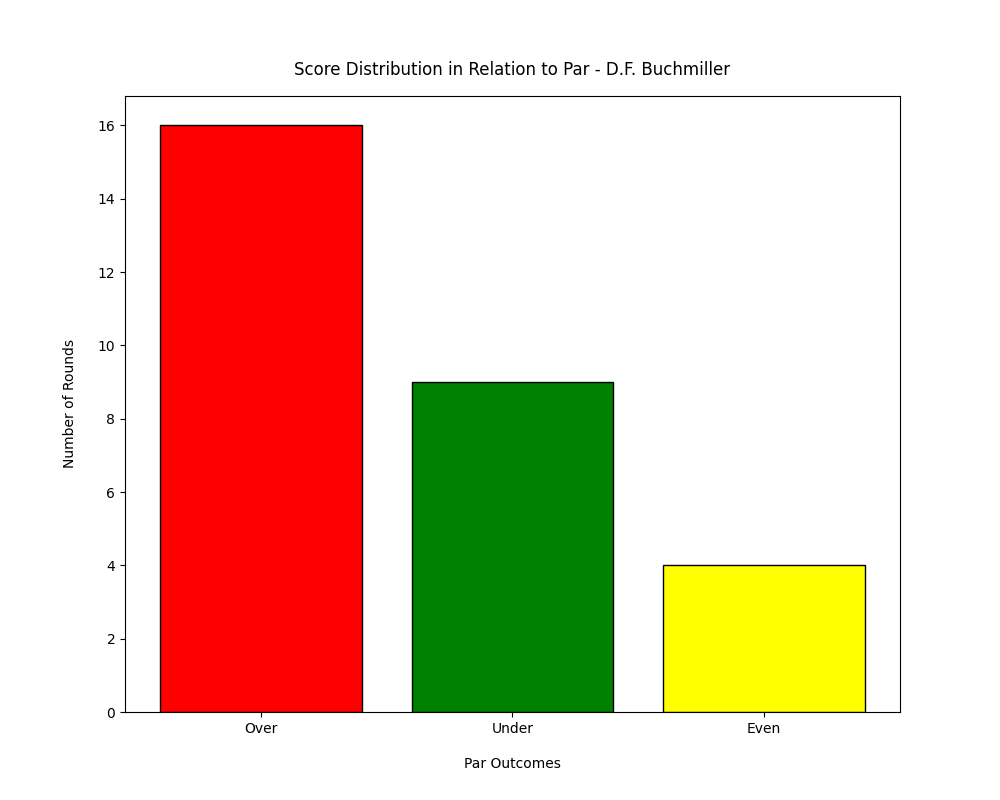
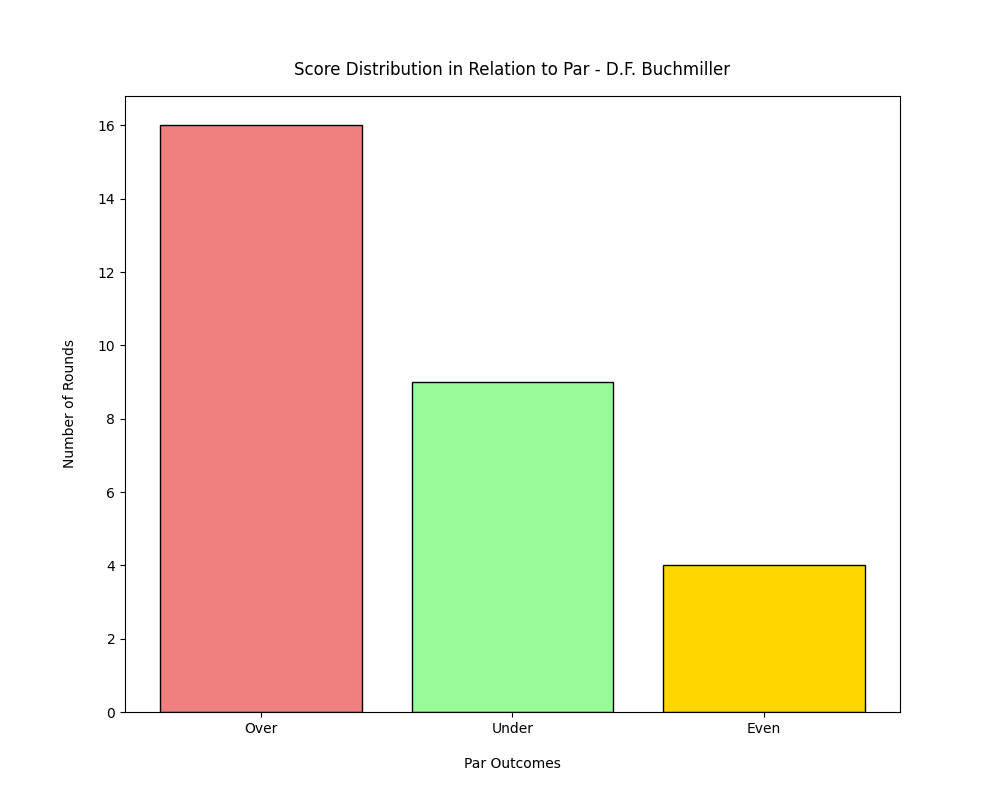
Updates...

Changed region(s): [[0.155, 0.1562, 0.372, 0.9062], [0.403, 0.4688, 0.62, 0.9062], [0.651, 0.6875, 0.868, 0.9062]]

diff --git a/buchmiller.py b/buchmiller.py
@@ -99,5 +99,5 @@ ax3.set_title('Score Distribution in Relation to Par - D.F. Buchmiller', pad = 1
 ax3.set_xlabel('Par Outcomes', labelpad = 15)
 ax3.set_ylabel('Number of Rounds', labelpad = 15)
 
-plt.bar(outcomes, outcome_counts, color = ['red', 'green', 'yellow'], edgecolor = 'black')
+plt.bar(outcomes, outcome_counts, color = ['lightcoral', 'palegreen', 'gold'], edgecolor = 'black')
 plt.show()
